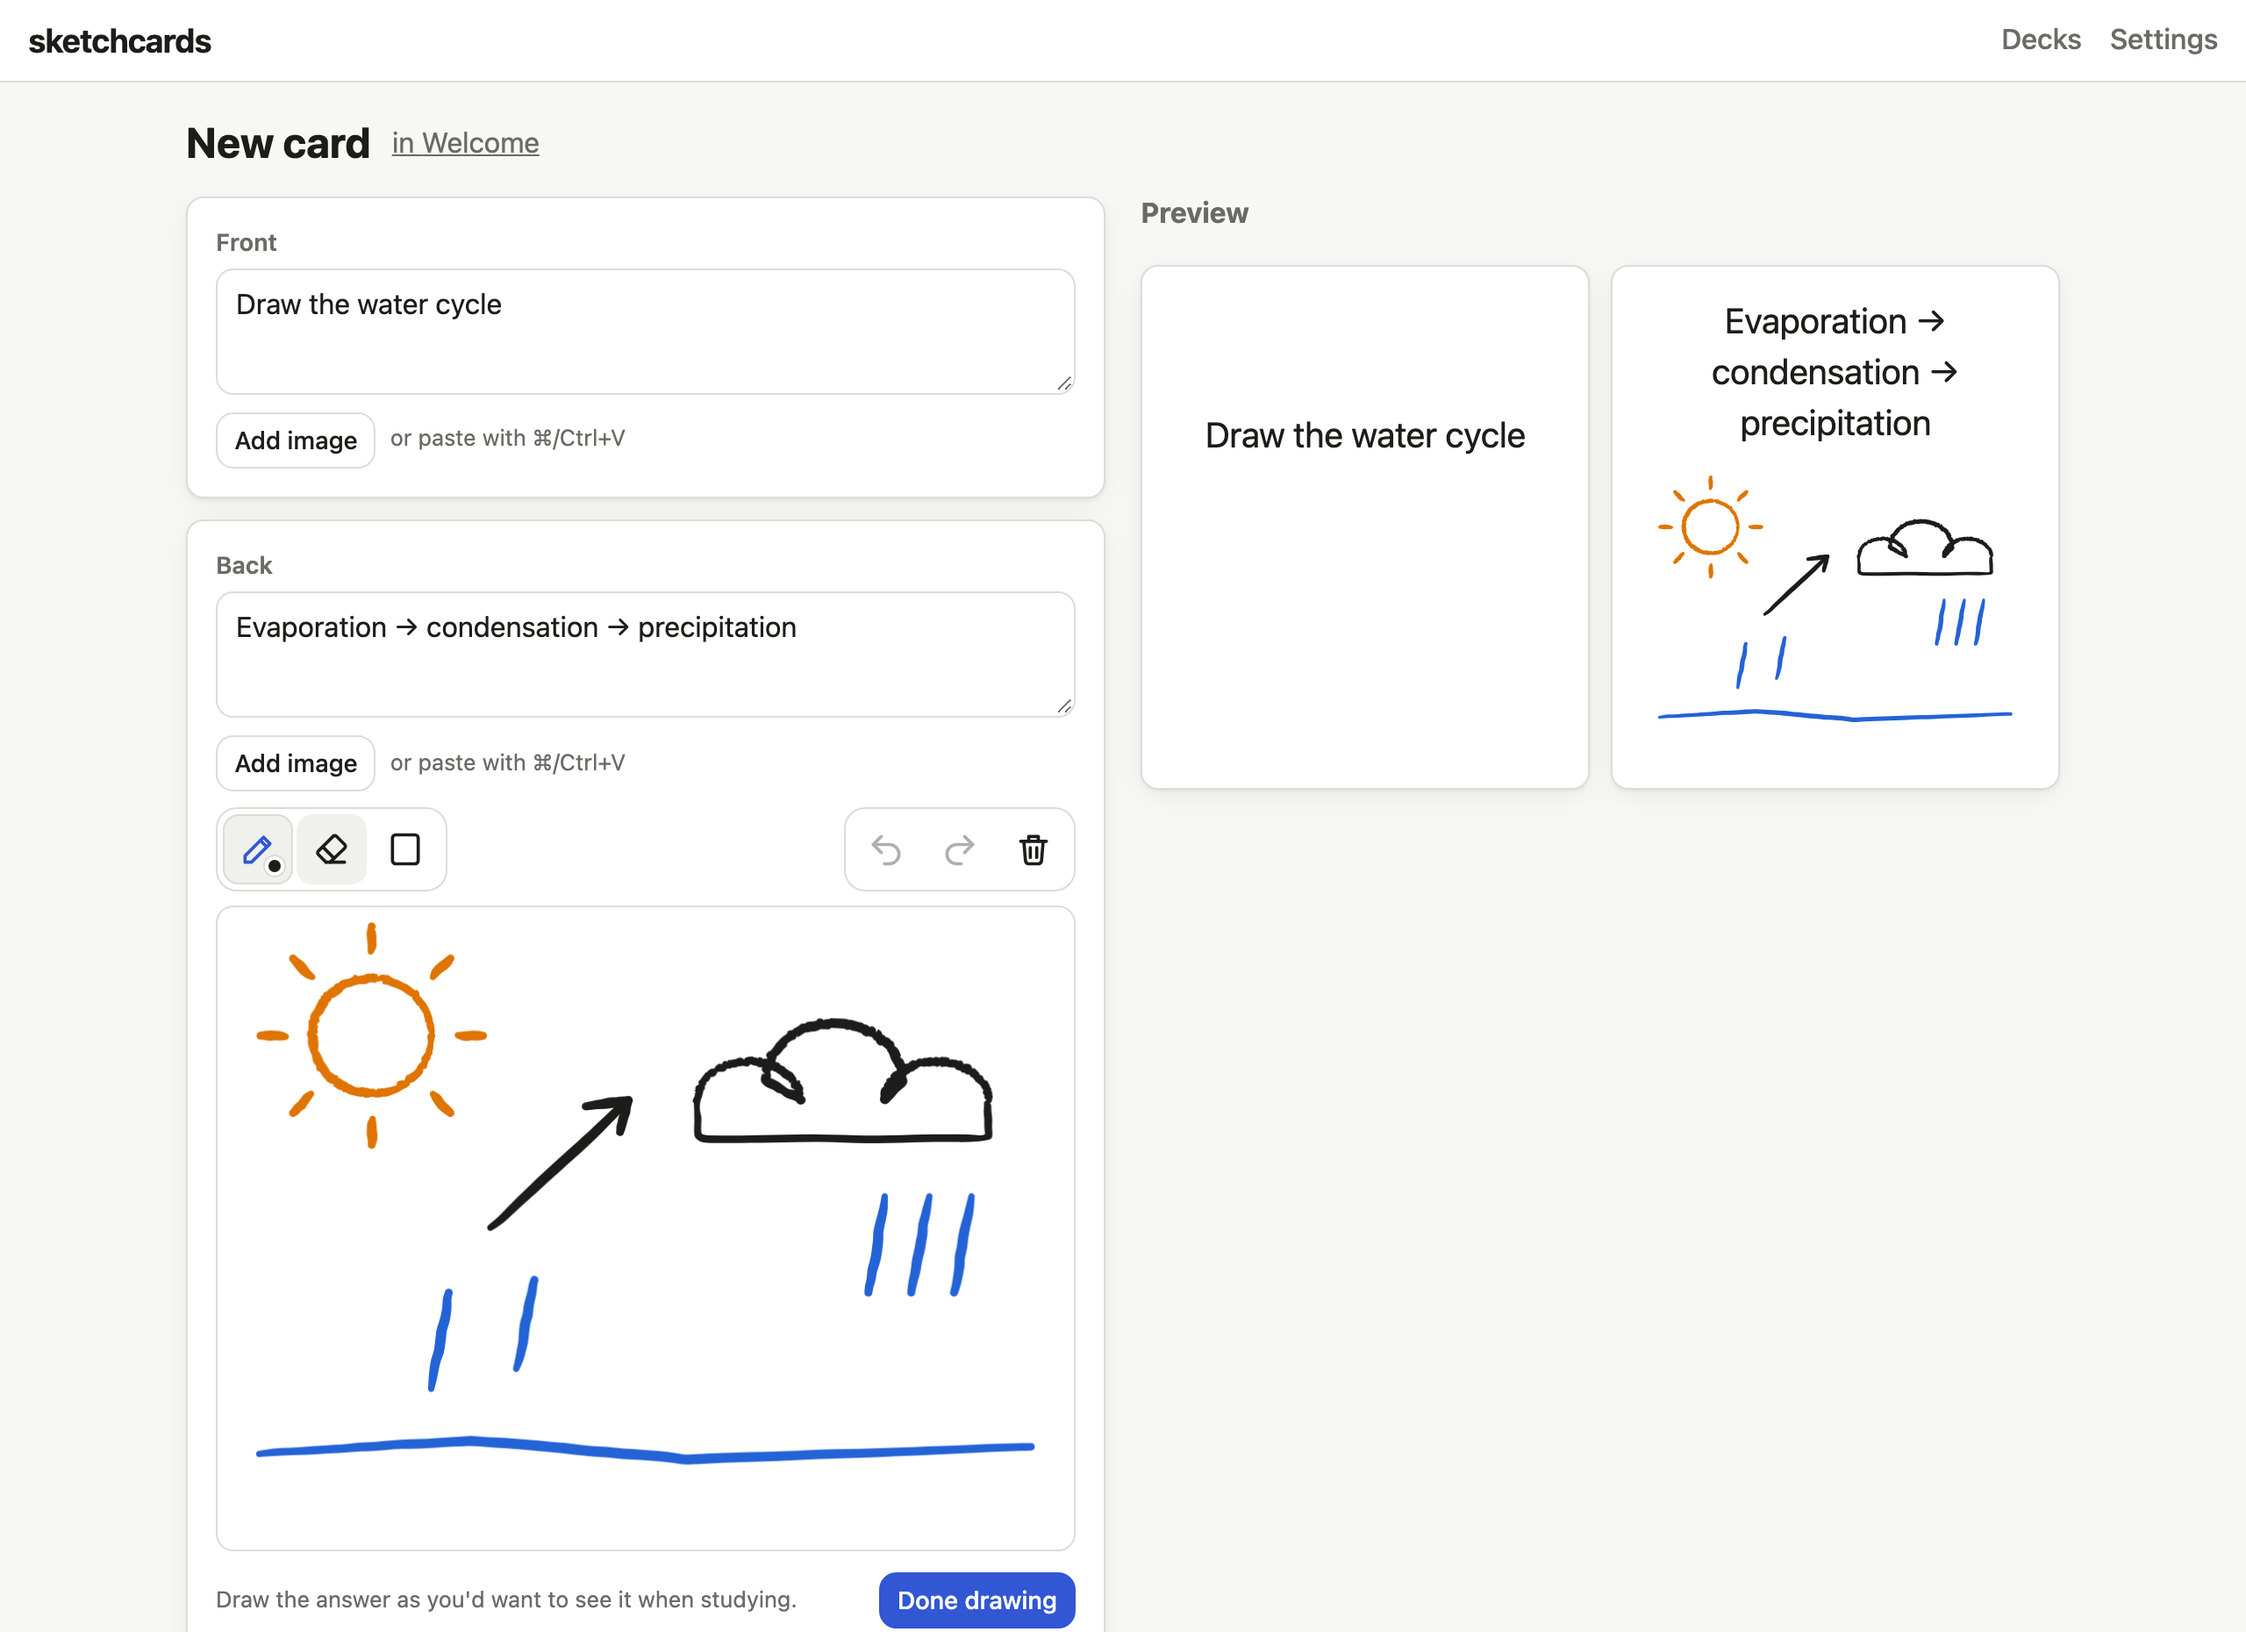
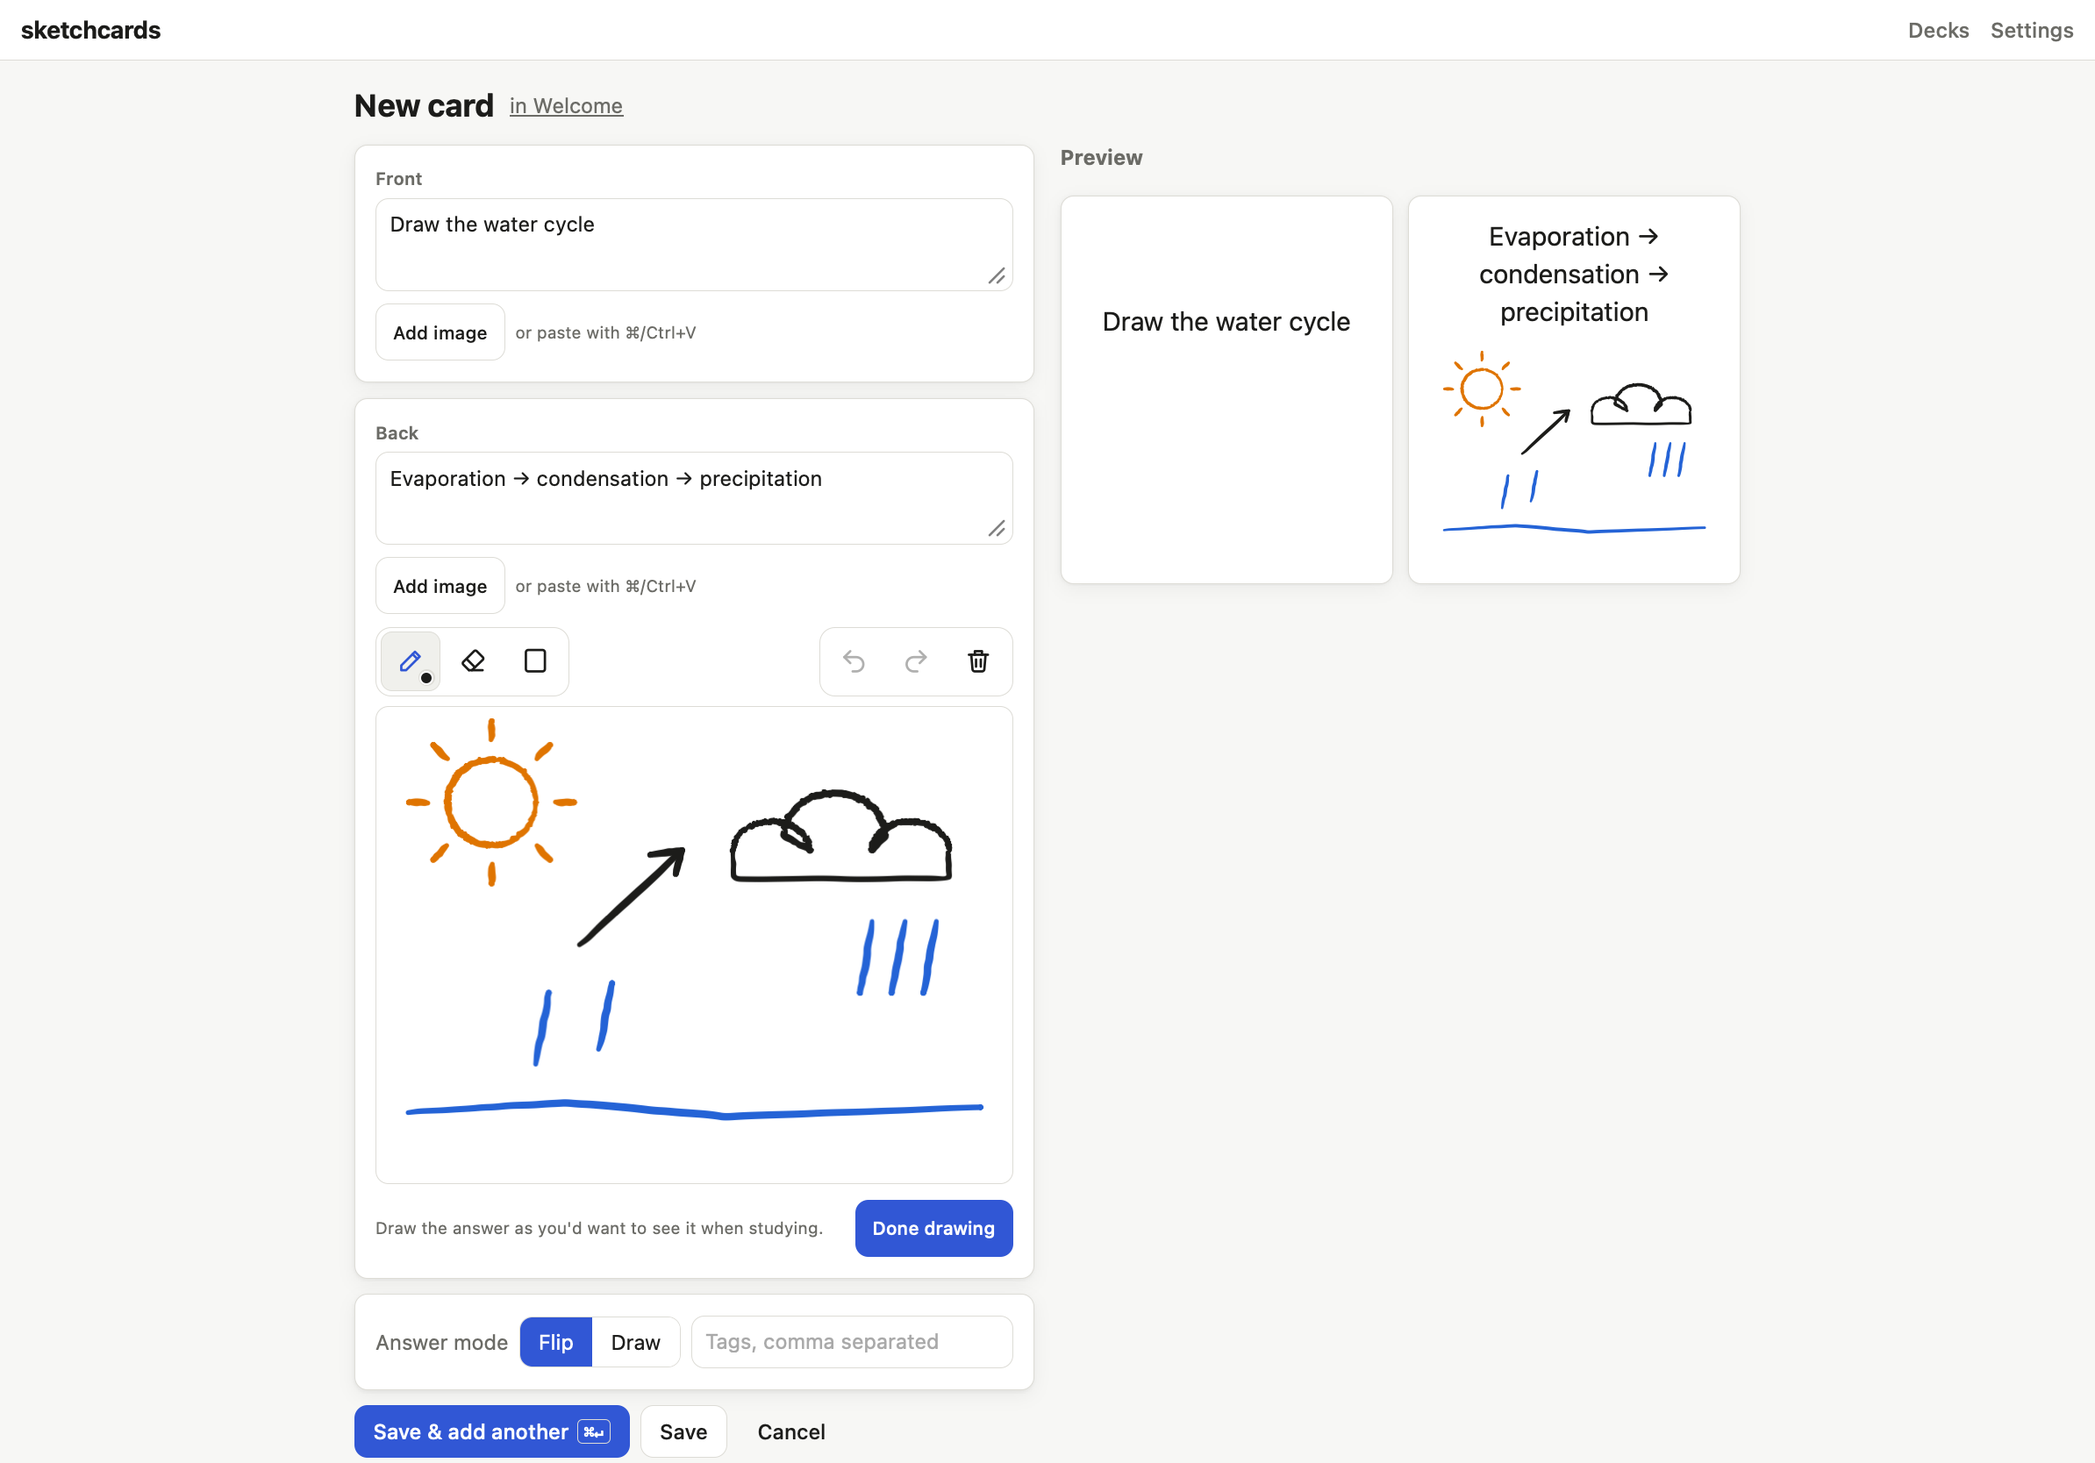
docs: same-size README screenshots so the grid lines up

diff --git a/README.md b/README.md
@@ -20,7 +20,7 @@ Sketch the answer from memory, flip, and compare. Spaced repetition decides what
   </tr>
   <tr>
     <td width="50%" valign="top"><img src="docs/dark.png" alt="Comparing a drawing with the reference in dark mode" /><br /><sub><b>Draw, flip, compare</b>, side by side or overlaid. Light or dark.</sub></td>
-    <td width="50%" valign="top"><img src="docs/toolbar.png" alt="Drawing toolbar with the color menu open on dot paper" /><br /><sub><b>Made for Apple Pencil</b>: pressure, palm rejection, colors, paper.</sub></td>
+    <td width="50%" valign="top"><img src="docs/toolbar.png" alt="Drawing a structure on grid paper with the color menu open" /><br /><sub><b>Made for Apple Pencil</b>: pressure, palm rejection, colors, paper.</sub></td>
   </tr>
 </table>
 
